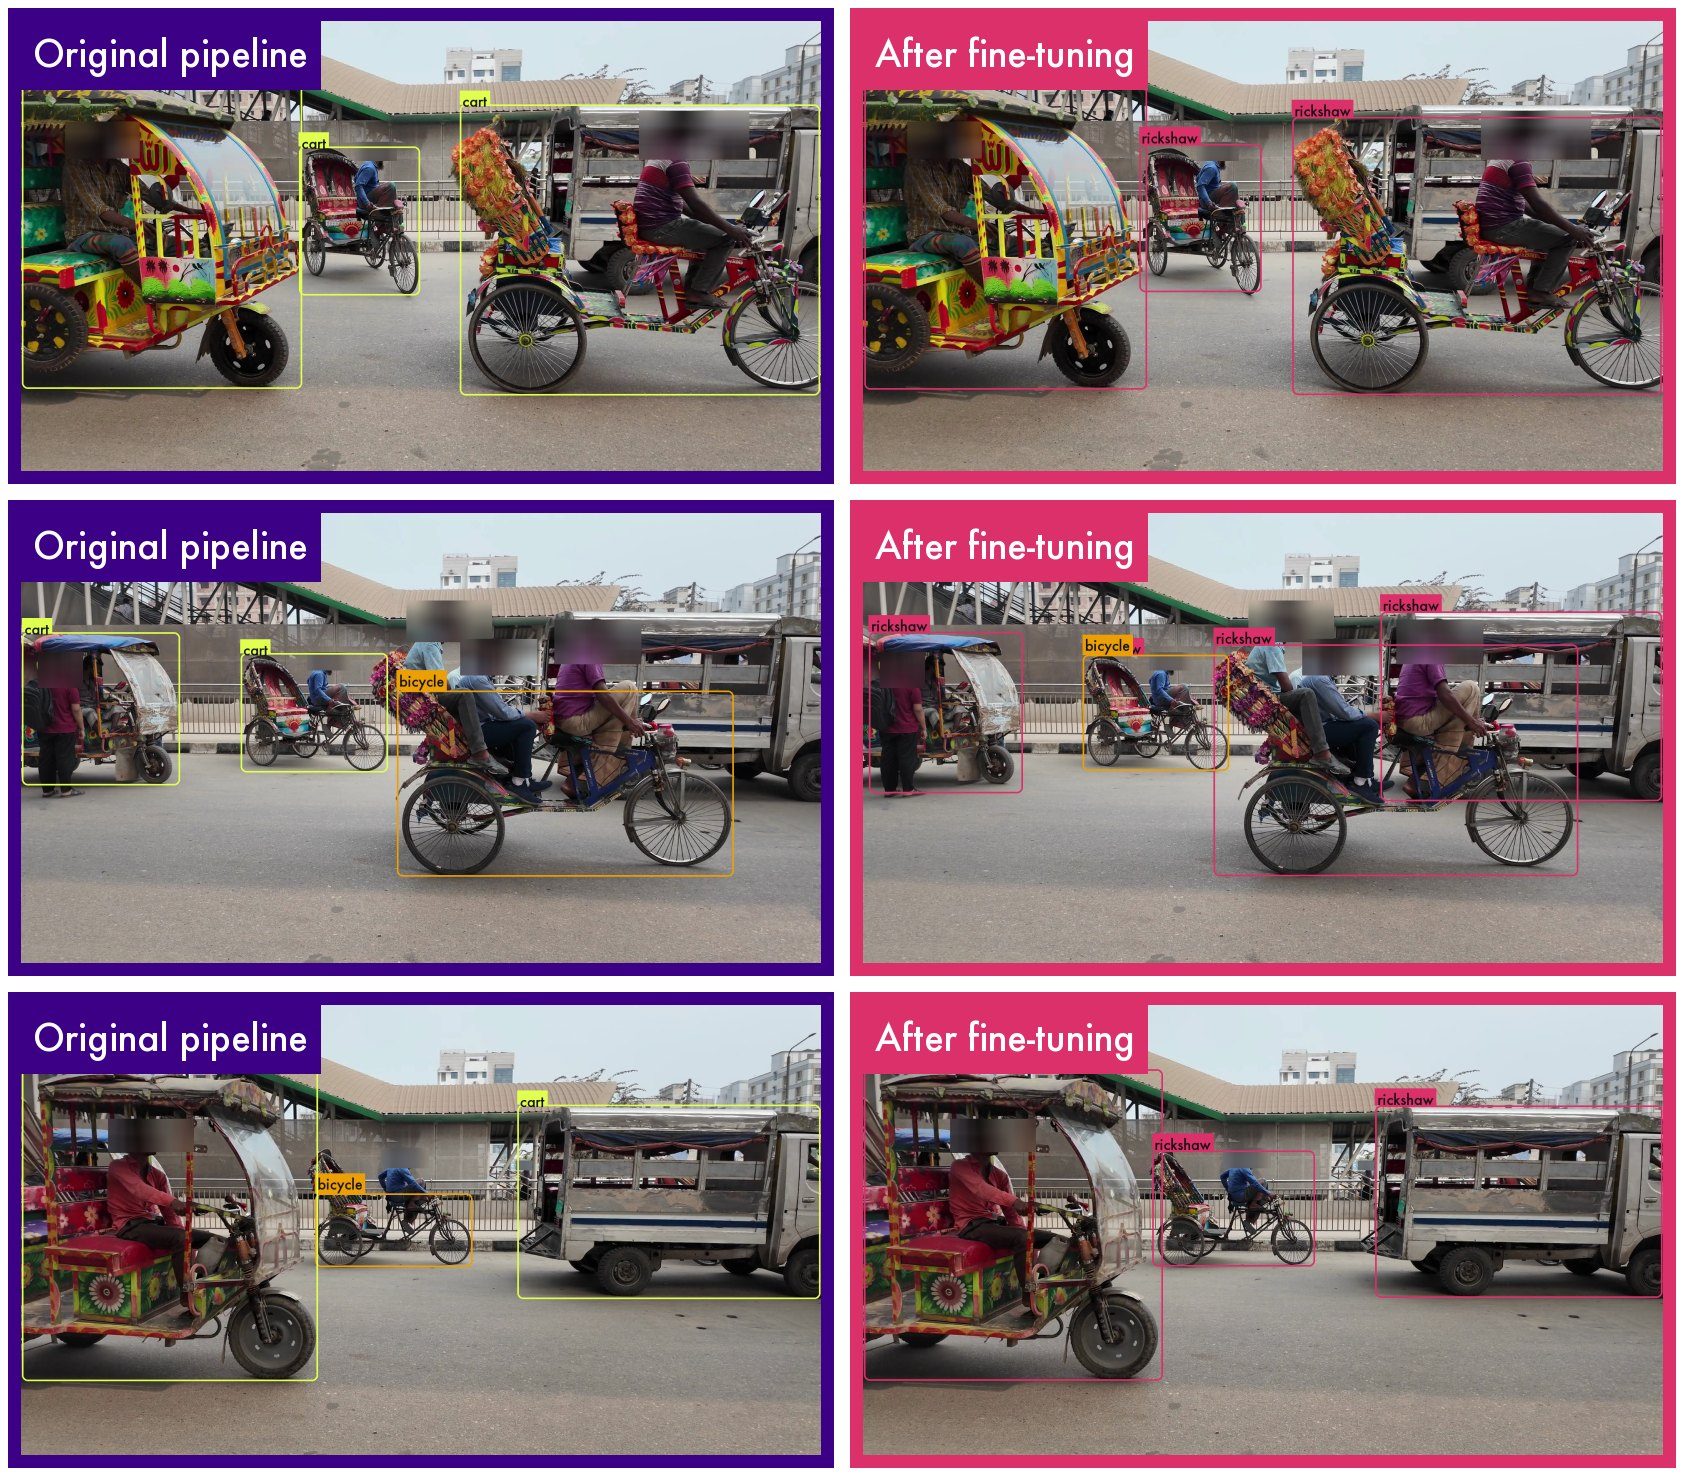
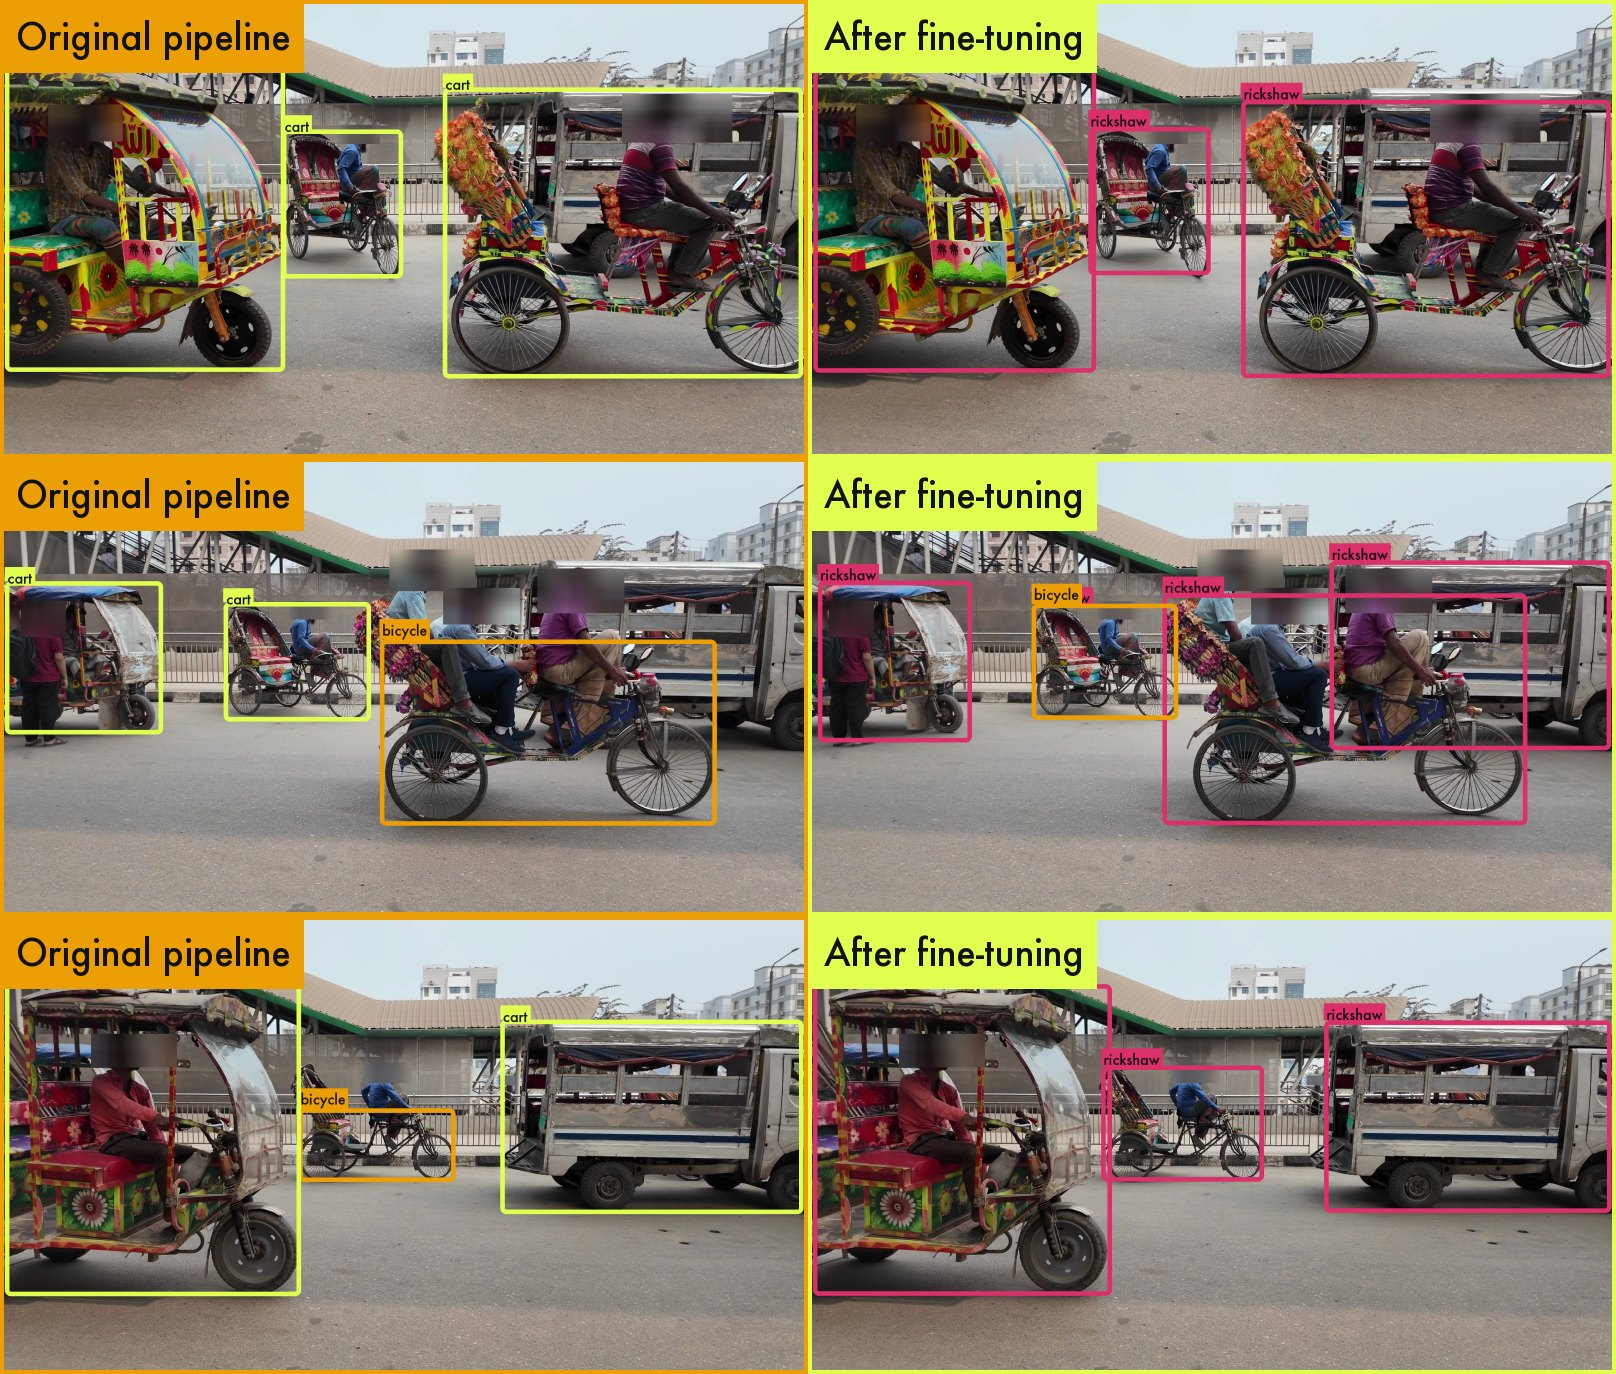
Figures: least-used palette colors for the frames, thinner frames, no white margins, thicker boxes
Original pipeline panels use bicycle amber and after fine-tuning cart yellow-green,
the two palette colors with the fewest boxes in the pictures.

diff --git a/scripts/make_figures.py b/scripts/make_figures.py
@@ -81,12 +81,12 @@ def iou(a, b):
     return i / u if u else 0
 
 
-def draw(img_bgr, items, size=22):
+def draw(img_bgr, items, size=22, width=11):
     """items = [(category, xyxy, text)]. Rounded-ish boxes in the palette, label chip in Futura."""
     pil = Image.fromarray(cv2.cvtColor(img_bgr, cv2.COLOR_BGR2RGB)); dr = ImageDraw.Draw(pil); f = FONT(size)
     for cat, (x1, y1, x2, y2), text in items:
         col = rgb(HEX[cat])
-        dr.rounded_rectangle([x1, y1, x2, y2], radius=14, outline=col, width=4)
+        dr.rounded_rectangle([x1, y1, x2, y2], radius=14, outline=col, width=width)
         tb = dr.textbbox((0, 0), text, font=f); tw, th = tb[2] - tb[0] + 12, tb[3] - tb[1] + 10
         ty = max(0, y1 - th)
         dr.rectangle([x1, ty, x1 + tw, ty + th], fill=col)
@@ -94,27 +94,28 @@ def draw(img_bgr, items, size=22):
     return cv2.cvtColor(np.array(pil), cv2.COLOR_RGB2BGR)
 
 
-ORIG_HEX, AFTER_HEX = "#3B0086", "#db3069"   # palette colors: original pipeline = deep purple, after fine-tuning = raspberry
+# Frame colors are the two palette colors used least in the pictures, so they never compete with the boxes people see most.
+# Boxes in the two test clips: bicycle 13, cart 49, motorcycle 79, rickshaw 202, person 1034.
+ORIG_HEX, AFTER_HEX = "#EC9F05", "#e0ff4f"   # original pipeline = bicycle amber, after fine-tuning = cart yellow-green
 
 
 def panel(img_bgr, text, hex_color):
-    """Colored frame and colored label tab, so busy pictures can be told apart at a glance. White gutter outside."""
+    """Thin colored frame and colored label tab, no white margin, so busy pictures can be told apart at a glance."""
     col = rgb(hex_color)
     h, w = img_bgr.shape[:2]
-    b = max(8, w // 60)
+    b = max(4, w // 200)
     framed = cv2.copyMakeBorder(img_bgr, b, b, b, b, cv2.BORDER_CONSTANT, value=col[::-1])
     pil = Image.fromarray(cv2.cvtColor(framed, cv2.COLOR_BGR2RGB)); dr = ImageDraw.Draw(pil); f = FONT(max(16, w // 22))
     tb = dr.textbbox((0, 0), text, font=f)
     dr.rectangle([b, b, b + tb[2] + 24, b + tb[3] + 20], fill=col)
-    dr.text((b + 12, b + 8), text, font=f, fill=(255, 255, 255))
-    out = cv2.cvtColor(np.array(pil), cv2.COLOR_RGB2BGR)
-    return cv2.copyMakeBorder(out, 8, 8, 8, 8, cv2.BORDER_CONSTANT, value=(255, 255, 255))
+    dr.text((b + 12, b + 8), text, font=f, fill=(17, 17, 17))     # both colors are light, so the text is dark
+    return cv2.cvtColor(np.array(pil), cv2.COLOR_RGB2BGR)
 
 
 def render(iid, source, w):
     img = read_blurred(f"{args.images}/{files[iid]}")
     items = [(c, b, NAMES[c]) for c, b, s in source.get(iid, [])]
-    big = draw(img, items, size=34)
+    big = draw(img, items, size=34, width=11)
     return cv2.resize(big, (w, int(big.shape[0] * w / big.shape[1])), interpolation=cv2.INTER_AREA)
 
 
@@ -164,15 +165,14 @@ tiles = []
 
 def tile(iid, cat, box, label, caption, hex_color):
     img = read_blurred(f"{args.images}/{files[iid]}")
-    img = draw(img, [(cat, box, label)], size=34)
+    img = draw(img, [(cat, box, label)], size=34, width=7)
     x1, y1, x2, y2 = box; cx, cy = (x1 + x2) / 2, (y1 + y2) / 2
     w = max(x2 - x1, (y2 - y1) * 16 / 9) * 1.5; h = w * 9 / 16
     x0 = int(min(max(cx - w / 2, 0), max(0, img.shape[1] - w))); y0 = int(min(max(cy - h / 2, 0), max(0, img.shape[0] - h)))
     crop = cv2.resize(img[y0:y0 + int(h), x0:x0 + int(w)], (640, 360), interpolation=cv2.INTER_AREA)
-    pil = Image.fromarray(cv2.cvtColor(crop, cv2.COLOR_BGR2RGB)); canvas = Image.new("RGB", (640, 420), (255, 255, 255))
+    pil = Image.fromarray(cv2.cvtColor(crop, cv2.COLOR_BGR2RGB)); canvas = Image.new("RGB", (640, 420), rgb(hex_color))
     canvas.paste(pil, (0, 0)); ImageDraw.Draw(canvas).text((12, 372), caption, font=FONT(24), fill=(17, 17, 17))
-    ImageDraw.Draw(canvas).rectangle([0, 0, 639, 419], outline=rgb(hex_color), width=10)
-    tiles.append(np.array(ImageOps.expand(canvas, border=8, fill=(255, 255, 255))))
+    tiles.append(np.array(canvas))
 
 
 def best(cands, used):
@@ -207,7 +207,9 @@ mo = [((b[2] - b[0]) * (b[3] - b[1]), iid, pb) for iid, gl in G.items() for c, b
       for pc, pb, _ in P.get(iid, []) if pc == 3 and iou(b, pb) > 0.5]
 t = best(mo, used)
 if t: tile(t[1], 3, t[2], "motorcycle", "Fine-tuned: a rickshaw called a motorcycle", AFTER_HEX)
-while len(tiles) % 3: tiles.append(np.full_like(tiles[0], 255))
-cv2.imwrite(str(OUT / f"mistakes_gallery_{args.tag}.jpg"), cv2.cvtColor(np.vstack([np.hstack(tiles[i:i + 3]) for i in range(0, len(tiles), 3)]), cv2.COLOR_RGB2BGR),
+# lay the tiles out without blank filler: 3 across, or 2 across when that fits the count better (4 tiles -> 2 x 2)
+cols = 3 if len(tiles) % 3 == 0 or len(tiles) % 2 else 2
+while len(tiles) % cols: tiles.append(np.full_like(tiles[0], 255))   # only if neither fits
+cv2.imwrite(str(OUT / f"mistakes_gallery_{args.tag}.jpg"), cv2.cvtColor(np.vstack([np.hstack(tiles[i:i + cols]) for i in range(0, len(tiles), cols)]), cv2.COLOR_RGB2BGR),
             [cv2.IMWRITE_JPEG_QUALITY, 86])
 print("pick", sorted(pick), "worse", sorted(pick2), "tiles", len(tiles))
